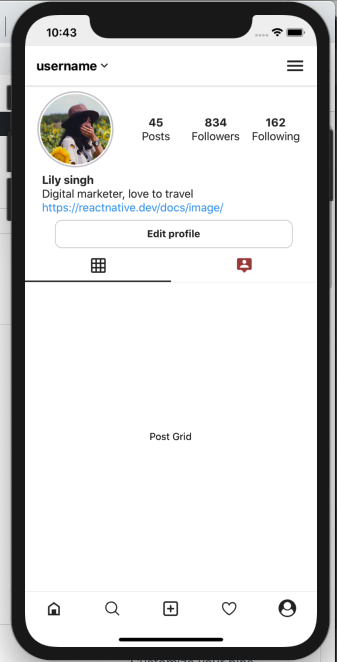
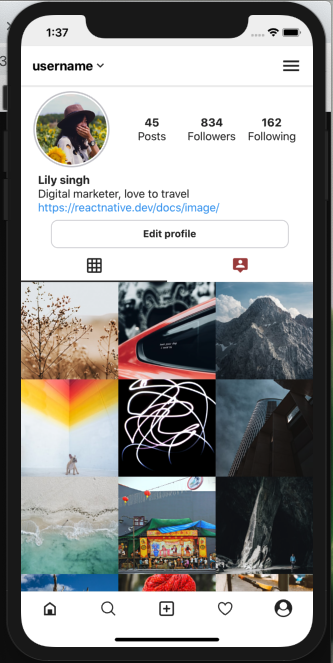
profile post

diff --git a/src/store/dumypost.js b/src/store/dumypost.js
@@ -1,0 +1,75 @@
+export const posts = [
+    {
+        key: 'post-1',
+        postUrl: "https://images.unsplash.com/photo-1550778323-71868c7dea39?ixlib=rb-1.2.1&ixid=eyJhcHBfaWQiOjEyMDd9&auto=format&fit=crop&w=750&q=80",
+        caption: "herbs landscape",
+        location: 'calfornia',
+    },
+    {
+        key: 'post-2',
+        postUrl: "https://images.unsplash.com/photo-1600136599619-ac19945eb560?ixlib=rb-1.2.1&ixid=eyJhcHBfaWQiOjEyMDd9&auto=format&fit=crop&w=282&q=80",
+        caption: "street",
+        location: 'New york',
+    },
+    {
+        key: 'post-3',
+        postUrl: "https://images.unsplash.com/photo-1583265651635-4955d322771f?ixlib=rb-1.2.1&auto=format&fit=crop&w=334&q=80",
+        caption: "mountain",
+        location: 'mountain view',
+    },
+    {
+        key: 'post-4',
+        postUrl: "https://images.unsplash.com/photo-1599839575509-b15589e78aa3?ixlib=rb-1.2.1&ixid=eyJhcHBfaWQiOjEyMDd9&auto=format&fit=crop&w=334&q=80",
+        caption: "pet",
+        location: 'studio',
+    },
+    {
+        key: 'post-5',
+        postUrl: "https://images.unsplash.com/photo-1581318540937-12df1816d795?ixlib=rb-1.2.1&ixid=eyJhcHBfaWQiOjEyMDd9&auto=format&fit=crop&w=1368&q=80",
+        caption: "abstract",
+        location: 'illustrator',
+    },
+    {
+        key: 'post-6',
+        postUrl: "https://images.unsplash.com/photo-1599860968018-b3b108029a37?ixlib=rb-1.2.1&ixid=eyJhcHBfaWQiOjEyMDd9&auto=format&fit=crop&w=334&q=80",
+        caption: "building",
+        location: 'New york',
+    },
+    {
+        key: 'post-7',
+        postUrl: "https://images.unsplash.com/photo-1532020326606-ca3ae703dd24?ixlib=rb-1.2.1&ixid=eyJhcHBfaWQiOjEyMDd9&auto=format&fit=crop&w=361&q=80",
+        caption: "beach",
+        location: 'Calafornia',
+    },
+    {
+        key: 'post-8',
+        postUrl: "https://images.unsplash.com/photo-1600224432239-d9f31d2e303d?ixlib=rb-1.2.1&ixid=eyJhcHBfaWQiOjEyMDd9&auto=format&fit=crop&w=726&q=80",
+        caption: "chines culture",
+        location: 'hong kong',
+    },
+    {
+        key: 'post-9',
+        postUrl: "https://images.unsplash.com/photo-1600008646149-eb8835bd979d?ixlib=rb-1.2.1&ixid=eyJhcHBfaWQiOjEyMDd9&auto=format&fit=crop&w=366&q=80",
+        caption: "photography",
+        location: 'caves',
+    },
+    {
+        key: 'post-10',
+        postUrl: "https://images.unsplash.com/photo-1561941850-0576b6269859?ixlib=rb-1.2.1&ixid=eyJhcHBfaWQiOjEyMDd9&auto=format&fit=crop&w=357&q=80",
+        caption: "tree",
+        location: 'dry desert',
+    },
+    {
+        key: 'post-11',
+        postUrl: "https://images.unsplash.com/flagged/photo-1577605047476-202951cec757?ixlib=rb-1.2.1&ixid=eyJhcHBfaWQiOjEyMDd9&auto=format&fit=crop&w=364&q=80",
+        caption: "rajesthan pagdi",
+        location: 'India-Rajeshthan',
+    },
+    {
+        key: 'post-12',
+        postUrl: "https://images.unsplash.com/photo-1598870156020-ba2bf128652c?ixlib=rb-1.2.1&ixid=eyJhcHBfaWQiOjEyMDd9&auto=format&fit=crop&w=375&q=80",
+        caption: "retro look vespa",
+        location: 'India',
+    },
+
+]   

diff --git a/src/screens/PostsGrid.js b/src/screens/PostsGrid.js
@@ -1,11 +1,23 @@
 import React from 'react';
-import { View, Text } from 'react-native';
+import { View, Text, FlatList } from 'react-native';
 import { Styles } from '../cofig/Styles';
+import { posts } from "../store/dumypost";
+import PostItem from '../components/PostItem';
+
 
 function PostsGrid() {
+    const renderItem = ({ item }) => {
+        return (
+            <PostItem item={item} />
+        )
+    }
+
     return (
         <View style={[Styles.windowBackground, { justifyContent: 'center', alignItems: 'center' }]}>
-            <Text>Post Grid</Text>
+            <FlatList
+                numColumns={3}
+                data={posts}
+                renderItem={renderItem} />
         </View>
     )
 }

diff --git a/src/components/PostItem.js b/src/components/PostItem.js
@@ -1,0 +1,13 @@
+import React from 'react';
+import { View, Image, Dimensions } from 'react-native';
+
+const postWidth = Dimensions.get('window').width / 3
+function PostItem({ item }) {
+    return (
+        <View style={{ height: postWidth, width: postWidth }}>
+            <Image source={{ uri: item.postUrl }} style={{ height: postWidth, width: postWidth }} />
+        </View>
+    );
+}
+
+export default PostItem;
